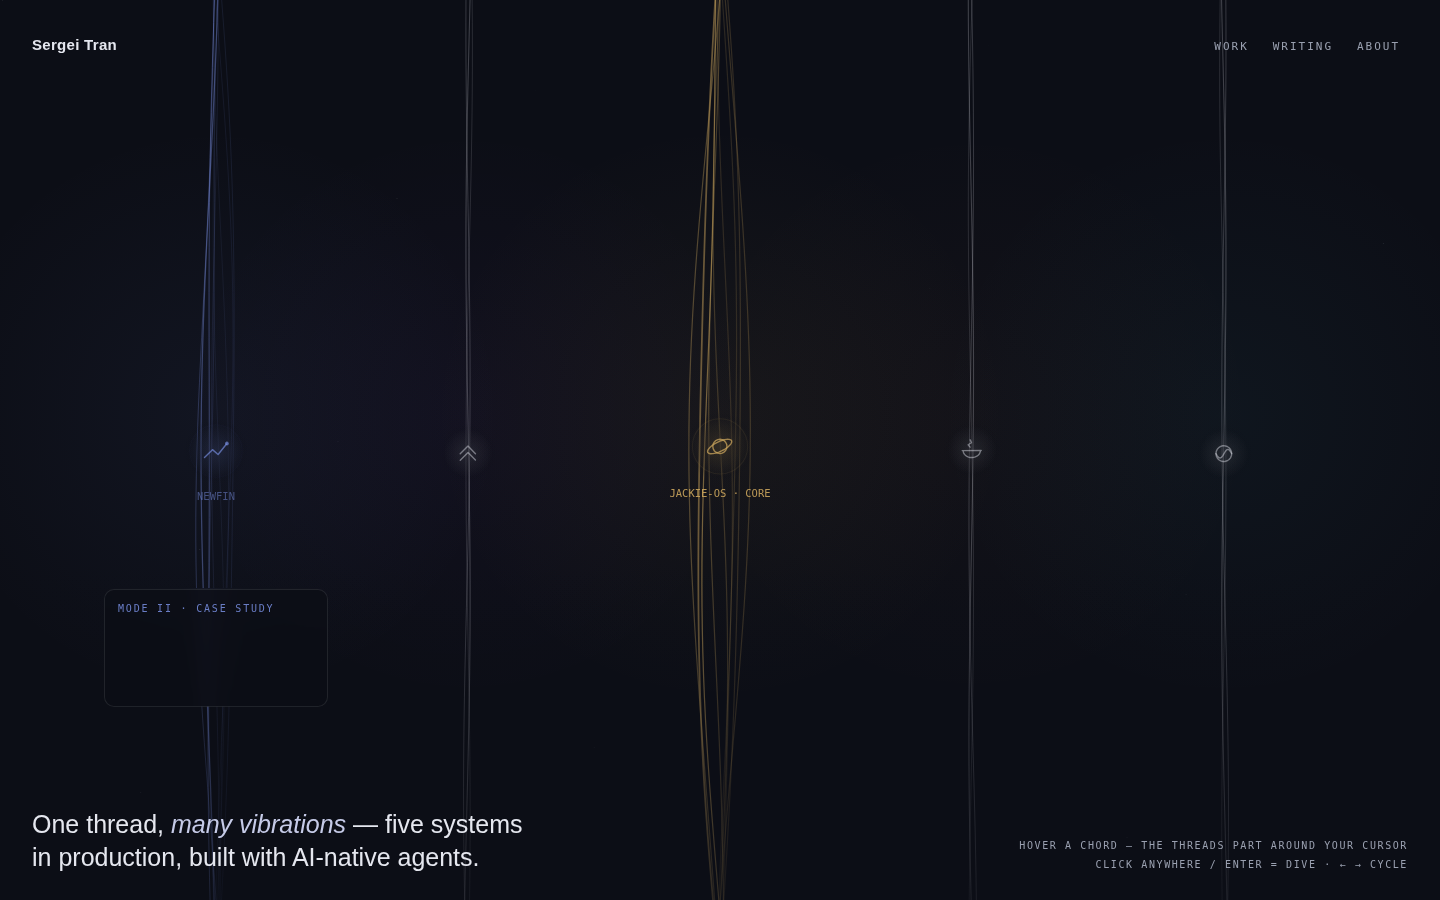
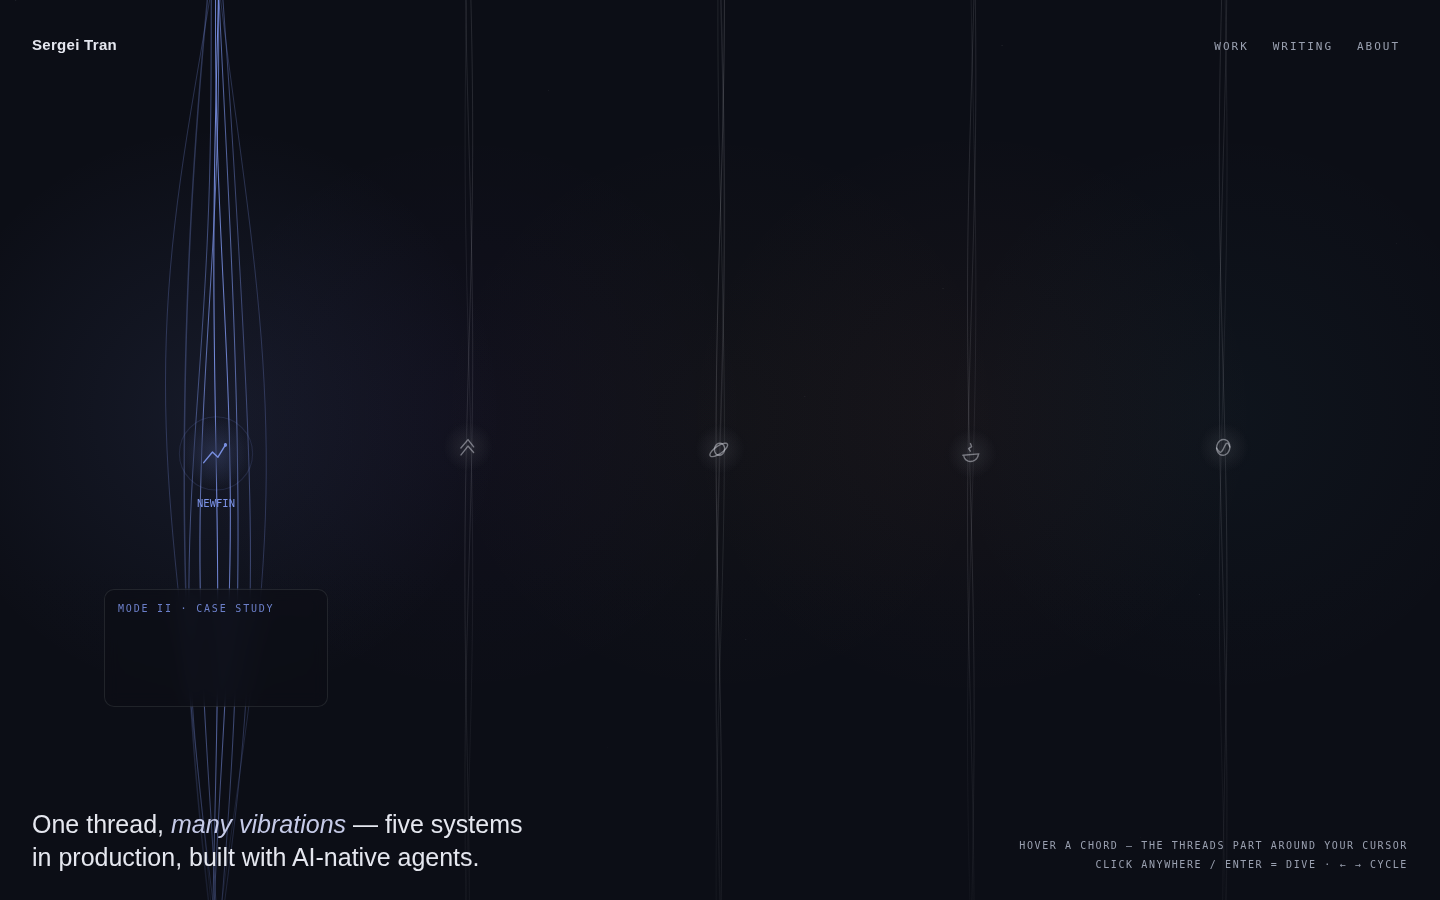
copy(site): restore thread metaphor

diff --git a/site/index.html b/site/index.html
@@ -3,9 +3,9 @@
 <head>
 <meta charset="utf-8">
 <meta name="viewport" content="width=device-width, initial-scale=1, viewport-fit=cover">
-<title>Sergei Tran — AI-native systems and products</title>
+<title>Sergei Tran — one thread, many vibrations</title>
 <meta name="description" content="Designer by training, builder of AI-native systems. Five products in production, run day-to-day by always-on agents — Jackie-OS, Newfin, B-Unit, Rodyna, Draw.">
-<meta property="og:title" content="Sergei Tran — AI-native systems and products">
+<meta property="og:title" content="Sergei Tran — one thread, many vibrations">
 <meta property="og:description" content="Five products in production, designed and built with always-on AI agents.">
 <meta property="og:type" content="website">
 <meta property="og:url" content="https://sergeichan.vercel.app">
@@ -432,15 +432,15 @@
   <div class="ov">
     <div class="bar"><span class="brand">Sergei Tran</span><span class="nav"><button data-go="home">Work</button><button data-go="panelWriting">Writing</button><button data-go="panelAbout">About</button></span></div>
     <div class="foot">
-      <div class="thesis">I build <em>AI-native systems</em> — five products in production, run by always-on agents.</div>
-      <div class="hint">hover over a thread to explore<br>click or press enter to open · ← → switch</div>
-      <div class="hint-touch">tap to explore · tap again to open</div>
+      <div class="thesis">One thread, <em>many vibrations</em> — five systems in production, built with AI-native agents.</div>
+      <div class="hint">hover a chord — the threads part around your cursor<br>click anywhere / enter = dive · ← → cycle</div>
+      <div class="hint-touch">tap a thread · tap again to dive</div>
     </div>
   </div>
   <div id="glimpse" role="status">
     <div class="kick" id="gKick"></div>
     <p class="one" id="gOne"></p>
-    <div class="enterhint">open project ↵</div>
+    <div class="enterhint">click to dive ↵</div>
   </div>
 </div>
 
@@ -450,7 +450,7 @@
   <div class="press" aria-hidden="true"></div>
   <div class="inner">
     <div class="backbar">
-      <button class="back" id="backBtn">← Back to work</button>
+      <button class="back" id="backBtn">← Resurface</button>
       <span class="mono caseIdx" id="caseIdx"></span>
     </div>
     <div class="roman" id="cRoman"></div>
@@ -489,8 +489,8 @@
     <h3>How it looks</h3><div class="frames" id="cFrames"></div>
     <h3>Architecture</h3><div class="arch" id="cArch"></div><p id="cArchNote" style="margin-top:12px"></p>
     <div class="nextrow">
-      <button class="back" id="backBtn2">← Back to work</button>
-      <a class="next" href="#" id="nextLink"><span class="mono" id="nextMono">Next project</span><span id="nextName"></span></a>
+      <button class="back" id="backBtn2">← Resurface</button>
+      <a class="next" href="#" id="nextLink"><span class="mono" id="nextMono">Next thread</span><span id="nextName"></span></a>
     </div>
   </div>
   <!-- fixed-position twin of #cVisit — outside .inner so the settled rise (.inner > *) never overrides its hidden state -->
@@ -518,7 +518,7 @@
     <button class="back pback">← Back</button>
     <div class="pkick">WRITING</div>
     <h1>Writing is coming.</h1>
-    <p>The first essay is about growing up between two cultures. Until it is ready, explore the work.</p>
+    <p>The first essay is about growing up between two cultures — one thread, many vibrations. Until it is ready, explore the work.</p>
   </div>
 </div>
 
@@ -544,9 +544,9 @@
     { id:'newfin', roman:'II', name:'Newfin', u:0.15, color:'#7C93E8', rgb:[124,147,232],
       one:'One view of net worth and cash flow, with an LLM advisor for a mixed portfolio.',
       meta:'2026 · TS MONOREPO · SUPABASE + VERCEL · LIVE',
-      link:{href:'/newfin/', label:'Explore Newfin'},
+      link:{href:'/newfin/', label:'Visit the Newfin landing'},
       what:'<p>A household finance platform for a portfolio that doesn\'t fit in one app: liquid and vesting crypto, futures, real estate across two countries, private deals, receivables, and cash. It combines one system of record, an API-first server, a web dashboard, and a household Telegram agent with scoped access.</p>',
-      why:'<p>Every tool I tried could track <b>one slice</b>, but none could show the whole portfolio accurately. Numbers without judgment are noise, so I wanted an advisor that reads the real state and sizes positions in dollars and percentages instead of repeating market clichés.</p>',
+      why:'<p>Every tool I tried could track <b>a slice</b> — none could hold the whole book truthfully. Numbers without judgment are noise, so I wanted an advisor that reads the real state and sizes positions in dollars and percentages instead of repeating market clichés.</p>',
       solve:'<ul class="plain"><li>One truthful net-worth line across every asset class and currency</li><li>An LLM advisor bound to the real payload — recommendations with numbers, never generic advice</li><li>Household access with hard scoping: the owner sees everything; family members see only their view</li><li>Read-only by design — it can describe a move, never execute one</li></ul>',
       fig:{h:'Every stream, one line', cap:'five asset streams fold into the book (demo)', tag:'one truthful line', kind:'newfin'},
       jobsH:'The pipeline — from accounts to advice',
